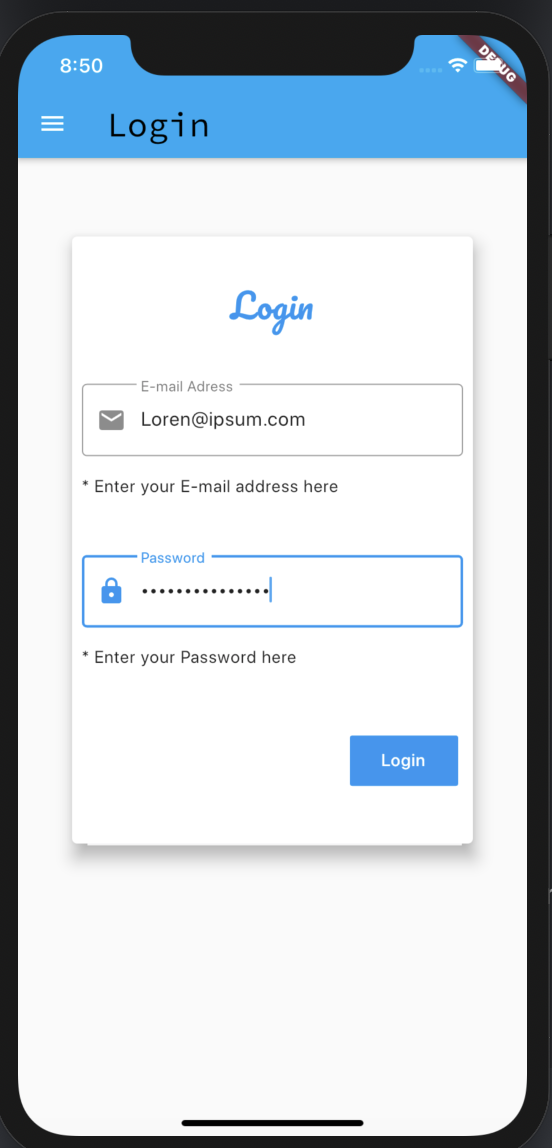
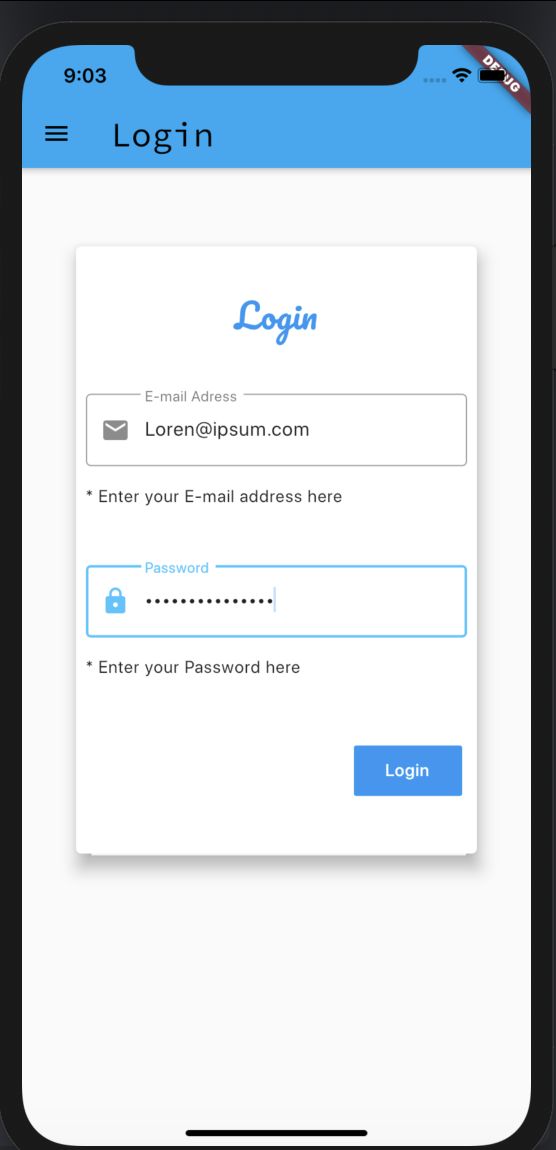
update

diff --git a/lib/main.dart b/lib/main.dart
@@ -7,11 +7,13 @@ class AppName extends StatelessWidget {
   @override
   Widget build(BuildContext context) {
     return MaterialApp(
+      theme: ThemeData(
+        primaryColor: Colors.lightBlueAccent,
+        primaryColorDark: Colors.yellow[400],// importante para mudar as cores do thema//
+      ),
       title: 'Login App',
       home: Scaffold(
-        drawer: Drawer(
-          
-        ),
+        drawer: Drawer(),
         appBar: AppBar(
           backgroundColor: Colors.lightBlue,
           title: Row(
@@ -53,7 +55,7 @@ class AppName extends StatelessWidget {
                           padding: const EdgeInsets.all(8.0),
                           child: TextField(
                             decoration: InputDecoration(
-                               prefixIcon: Icon(Icons.mail),
+                              prefixIcon: Icon(Icons.mail),
                               border: OutlineInputBorder(),
                               labelText: 'E-mail Adress',
                             ),
